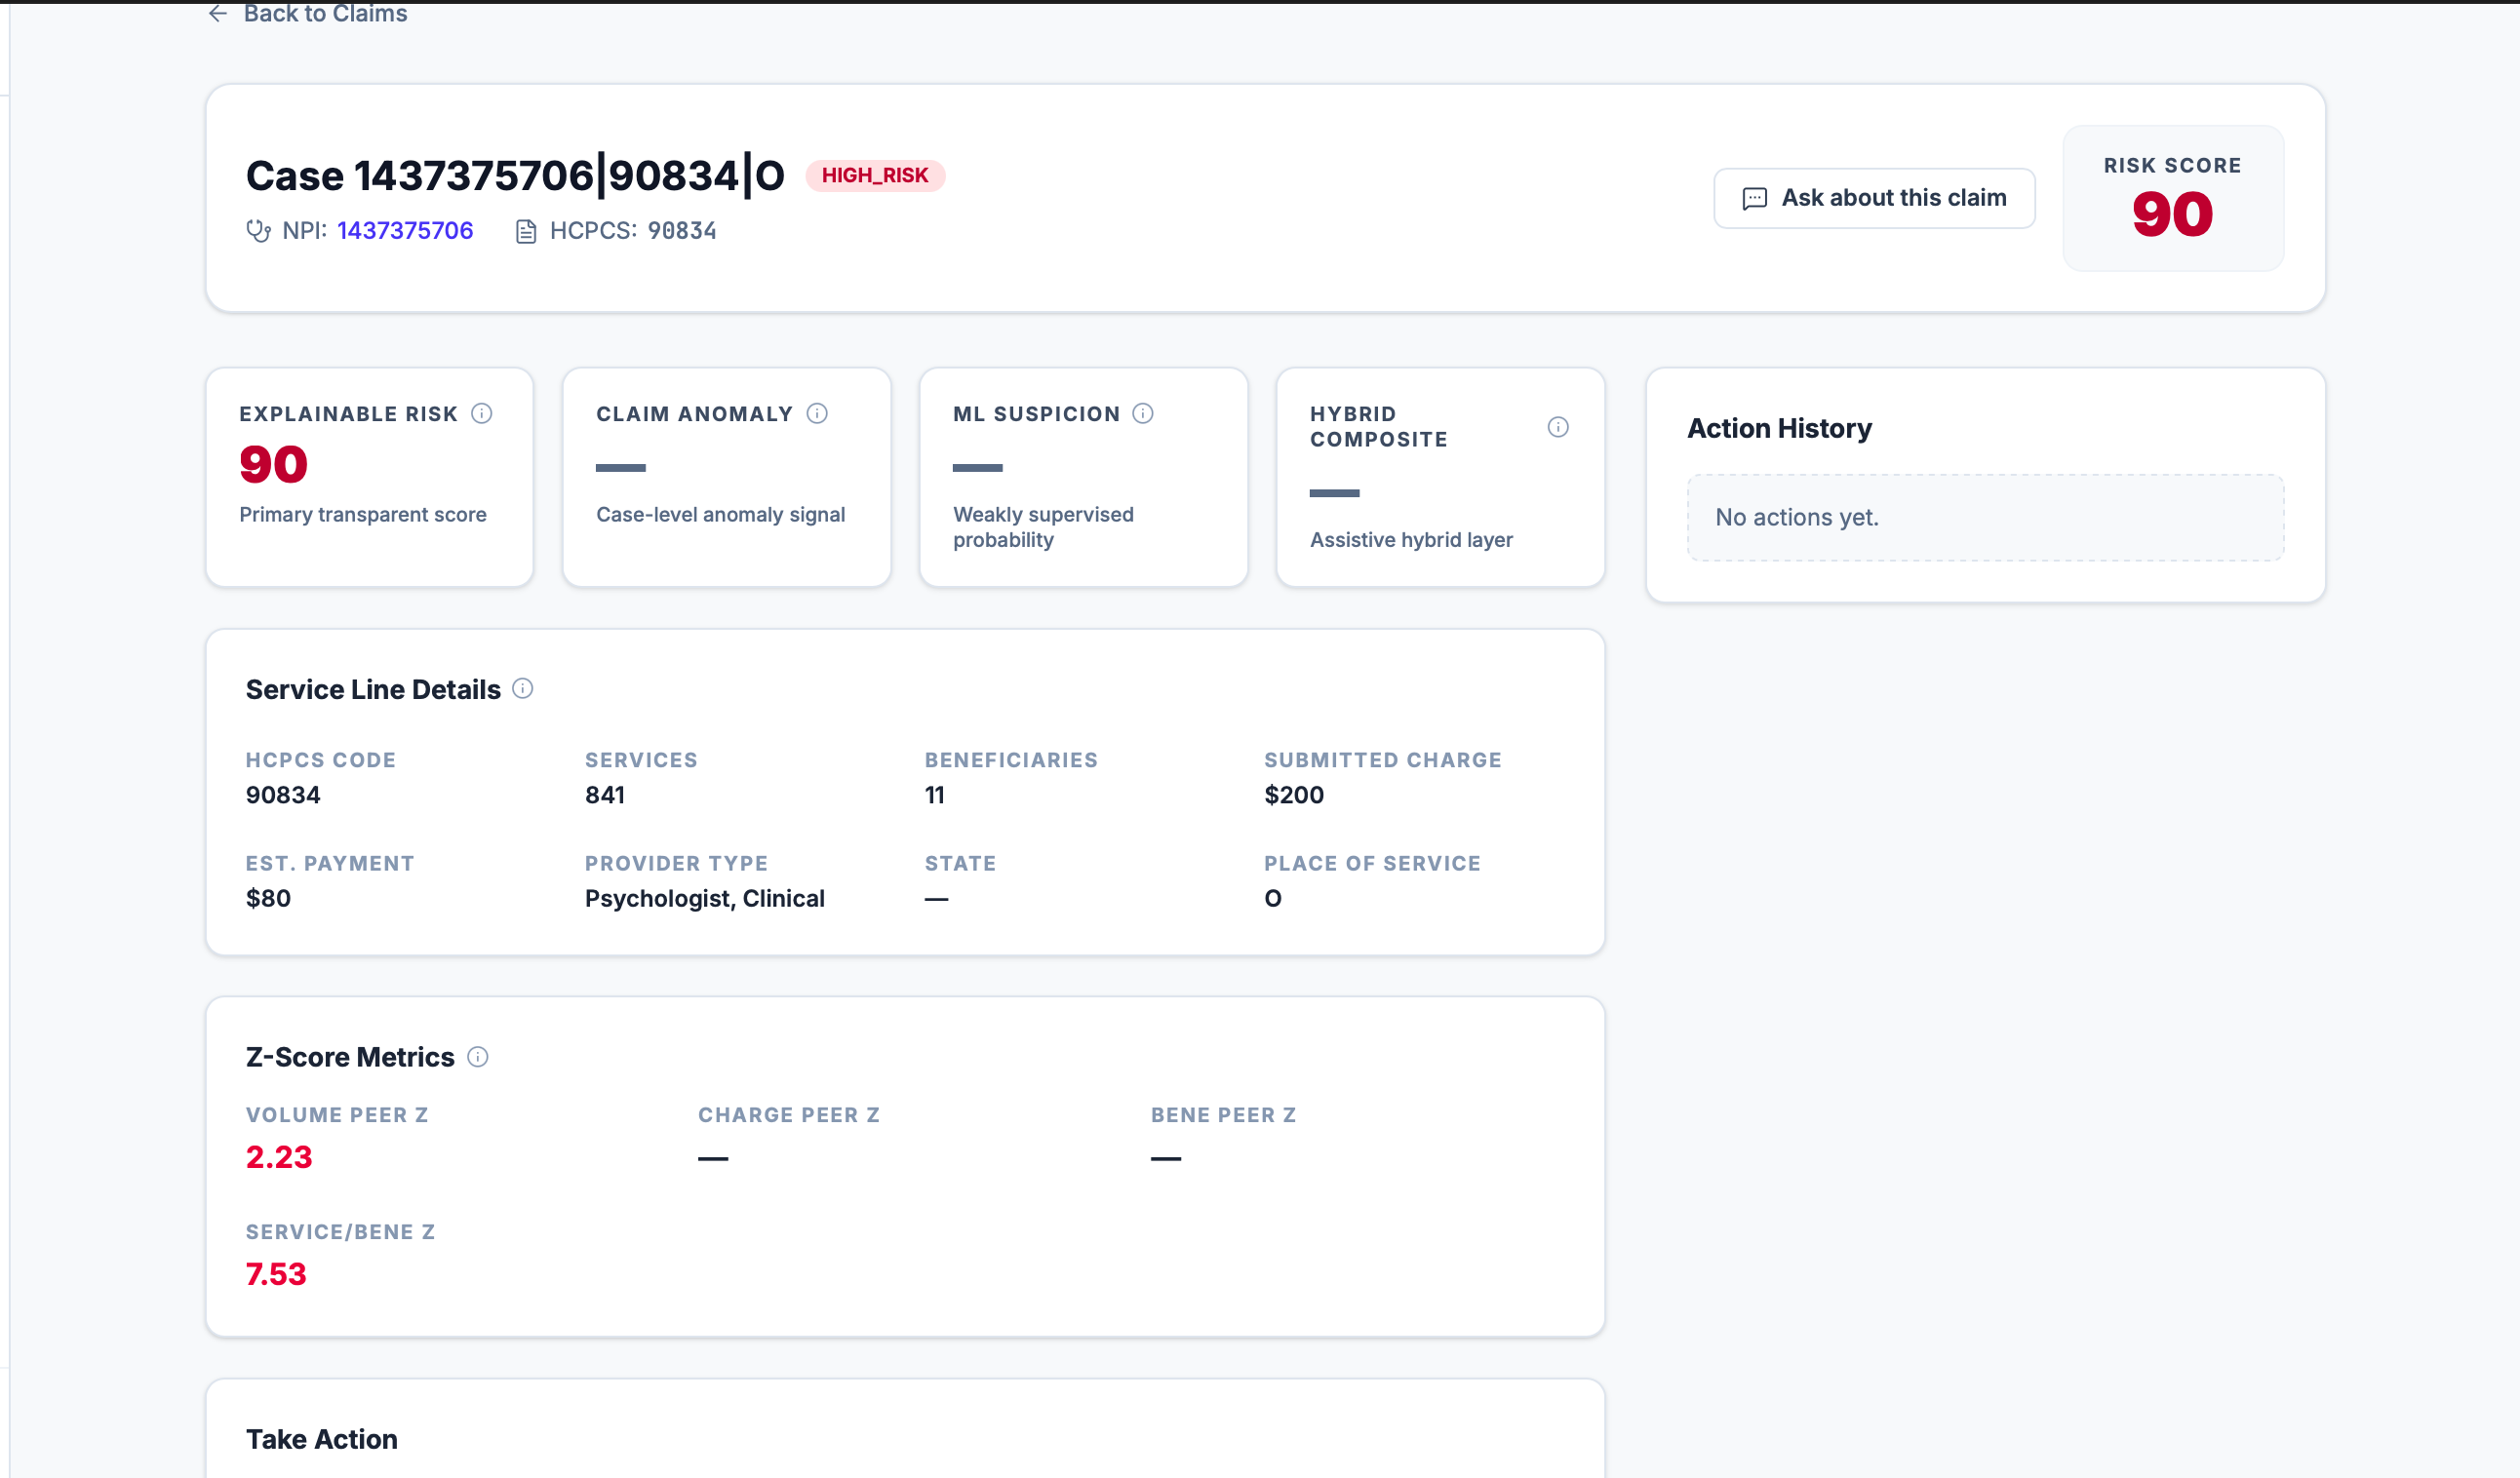
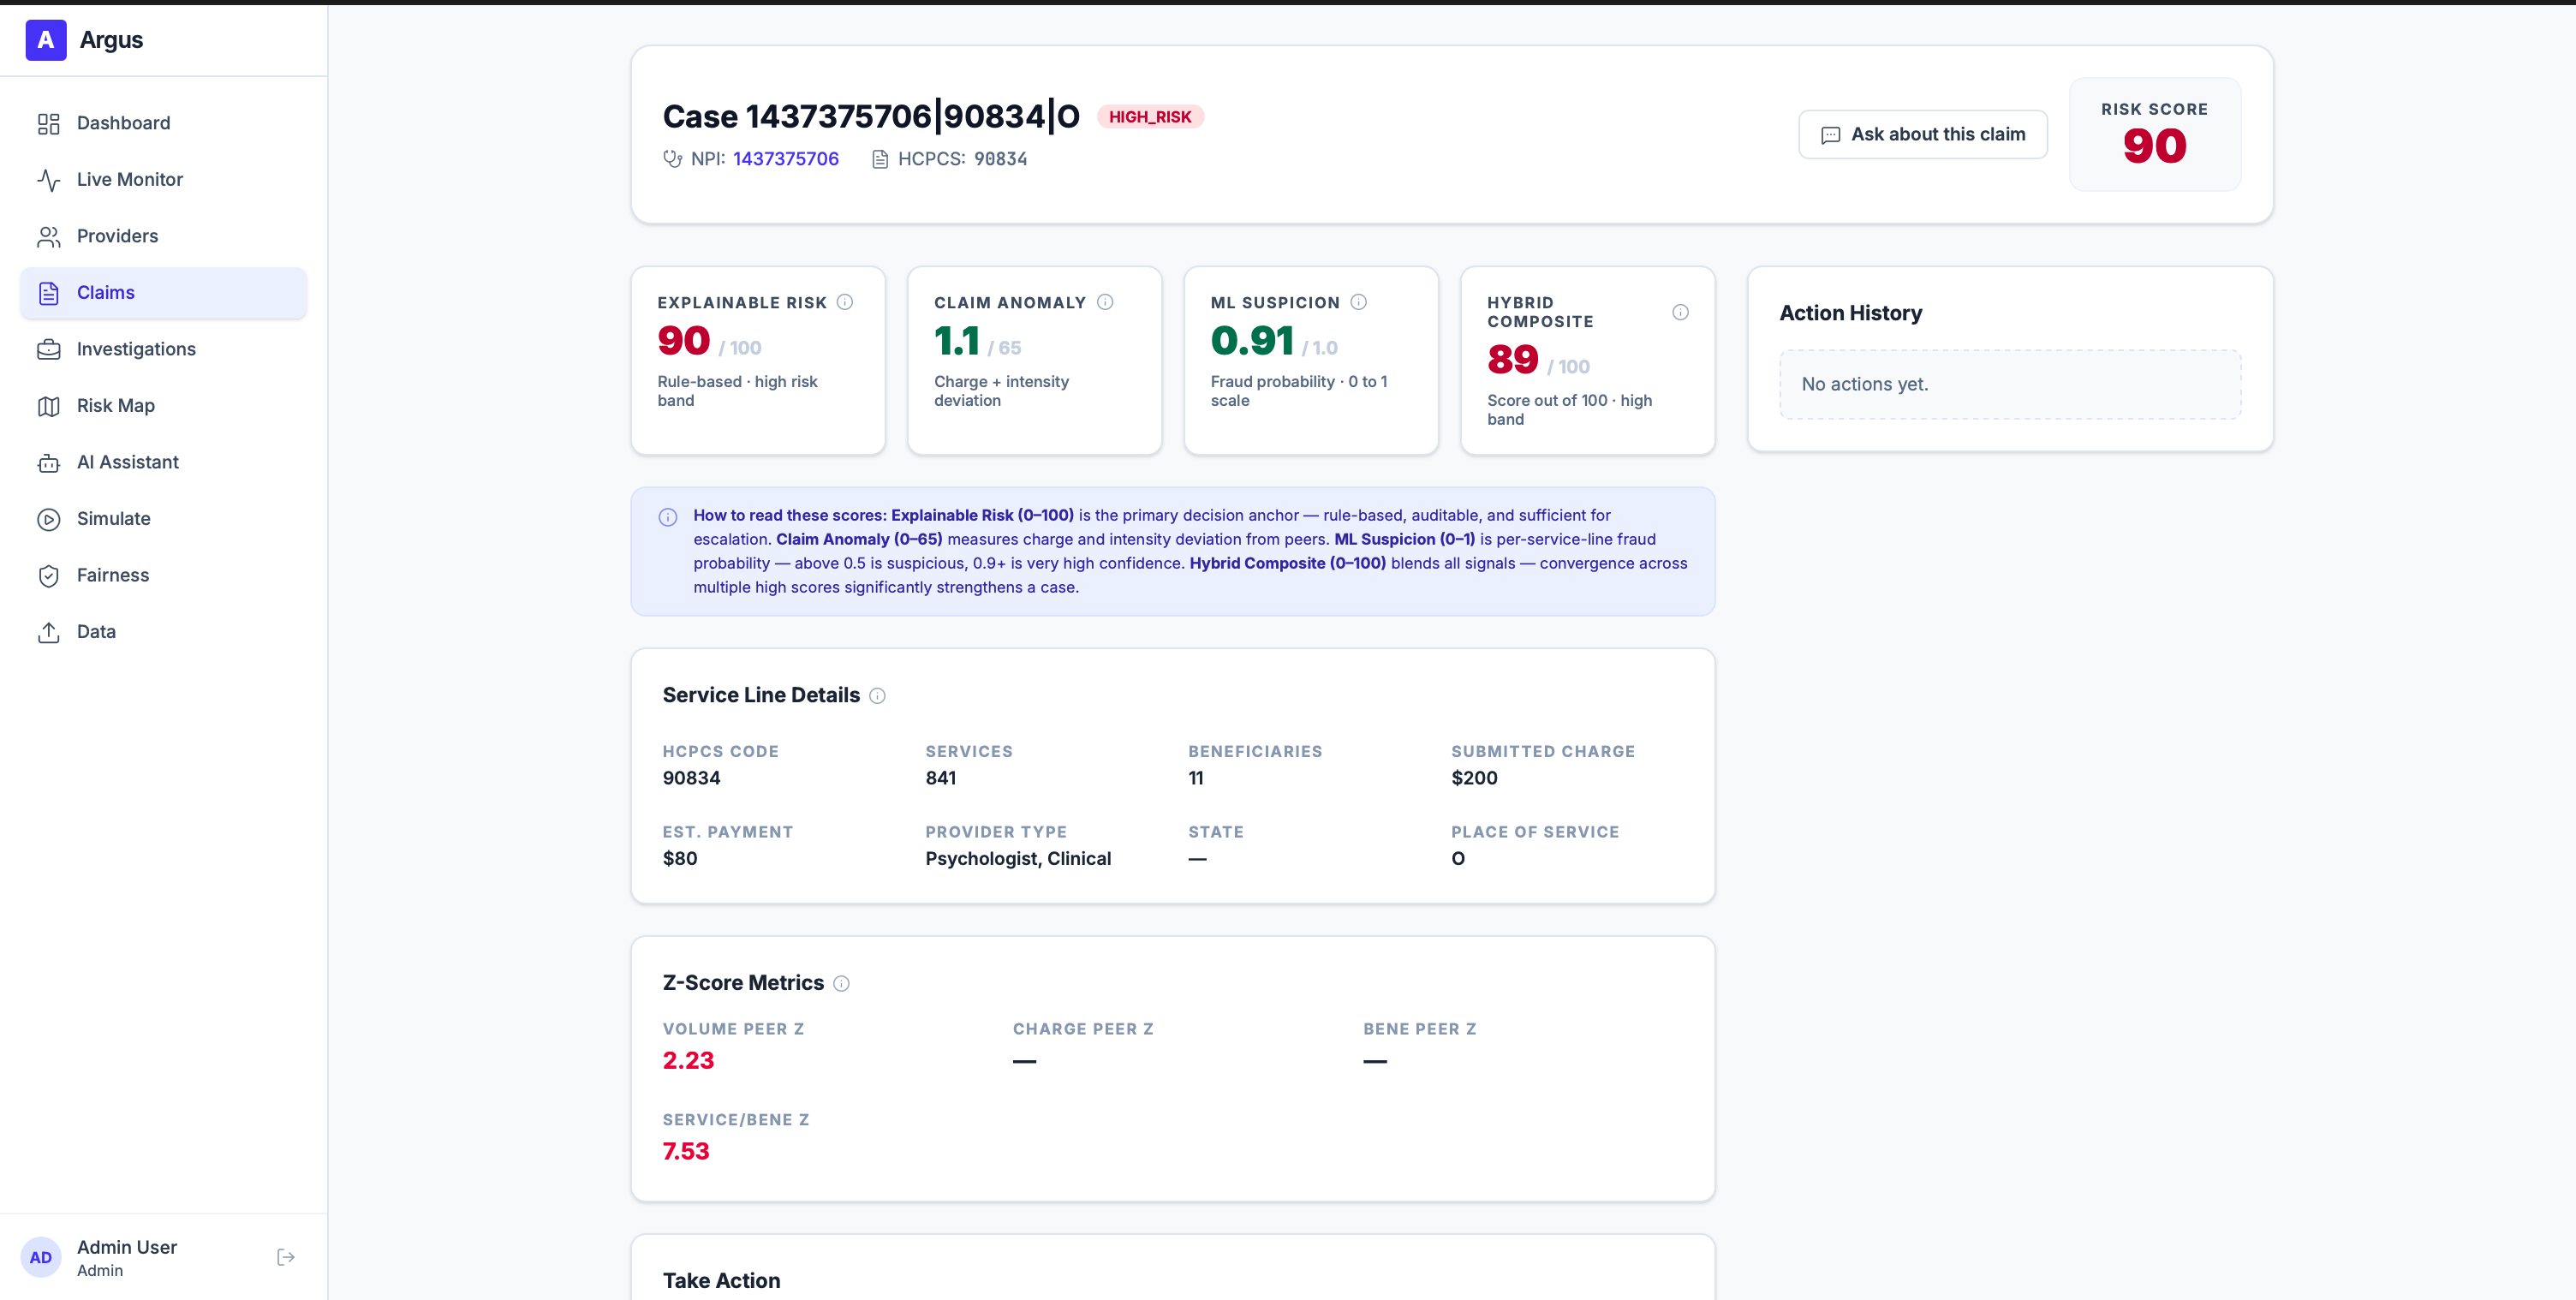
fix(api): use seed-backed live queue

diff --git a/src/api/live_queue.py b/src/api/live_queue.py
@@ -1,8 +1,7 @@
 """Persistent server-side queue for the Live Payment Monitor.
 
-Builds a curated 10,000-event queue from the database, pre-scores each
-claim through the 14-signal engine, and emits events at a configurable
-TPS rate via an async broadcast channel.
+Builds a curated 10,000-event queue from pre-scored seed data in Postgres
+and emits events at a configurable TPS rate via an async broadcast channel.
 
 Key properties:
   - Survives browser refresh / different user logins (server-side state)
@@ -28,9 +27,6 @@ from datetime import UTC, datetime
 from psycopg.rows import dict_row
 
 from src.api import deps as _deps
-from src.models.anomaly_scorer import score_provider
-from src.scoring.score import ScoreCard, score_case
-from src.scoring.taxonomy import SignalDirection
 
 logger = logging.getLogger(__name__)
 
@@ -96,6 +92,8 @@ WITH ranked AS (
            peer_scope, peer_case_count, peer_avg_tot_srvcs,
            service_volume_peer_z, services_per_bene_peer_z,
            submitted_to_allowed_peer_z, payment_peer_z,
+           seed_risk_score, seed_legitimacy_score, seed_case_label,
+           seed_risk_reasons,
            ROW_NUMBER() OVER (
                PARTITION BY provider_state
                ORDER BY npi, case_id
@@ -119,43 +117,24 @@ ORDER BY cnt DESC
 LIMIT %(limit)s
 """
 
-_FEATURES_SQL = """SELECT * FROM provider_features WHERE npi = %(npi)s"""
-
-
 # ---------------------------------------------------------------------------
 # Band filter helpers
 # ---------------------------------------------------------------------------
 
 
 def _high_risk_filter() -> str:
-    """SQL WHERE clause fragment for high_risk cases."""
-    return (
-        "service_volume_peer_z >= 2.0 OR services_per_bene_peer_z >= 2.0 "
-        "OR submitted_to_allowed_peer_z >= 2.0 OR payment_peer_z >= 2.0 "
-        "OR present_in_2026_revocation_file = 1"
-    )
+    """SQL WHERE clause fragment for high_risk seed cases."""
+    return "seed_case_label = 'high_risk'"
 
 
 def _stable_filter() -> str:
-    """SQL WHERE clause fragment for likely-stable cases."""
-    return (
-        "present_in_2025_enrollment_file = 1 "
-        "AND (present_in_2026_revocation_file IS NULL "
-        "     OR present_in_2026_revocation_file = 0) "
-        "AND medicare_participating_ind = 'Y' "
-        "AND COALESCE(service_volume_peer_z, 0) < 2.0 "
-        "AND COALESCE(services_per_bene_peer_z, 0) < 2.0"
-    )
+    """SQL WHERE clause fragment for stable seed cases."""
+    return "seed_case_label = 'stable'"
 
 
 def _review_filter() -> str:
-    """SQL WHERE clause fragment for review-band cases (middle ground)."""
-    return (
-        "present_in_2025_enrollment_file = 1 "
-        "AND (COALESCE(service_volume_peer_z, 0) BETWEEN 1.0 AND 3.0 "
-        "     OR COALESCE(services_per_bene_peer_z, 0) BETWEEN 1.0 AND 3.0 "
-        "     OR COALESCE(submitted_to_allowed_peer_z, 0) BETWEEN 1.0 AND 3.0)"
-    )
+    """SQL WHERE clause fragment for review seed cases."""
+    return "seed_case_label = 'review'"
 
 
 # ---------------------------------------------------------------------------
@@ -249,45 +228,21 @@ class QueueManager:
                 len(stable_rows),
             )
 
-            # 3. Score all candidates and partition by actual scored label
-            scored_by_label: dict[str, list[QueueEvent]] = defaultdict(list)
-            npi_features_cache: dict[str, dict | None] = {}
-
-            all_candidates = list(high_risk_rows) + list(review_rows) + list(stable_rows)
-            # Shuffle before scoring to avoid systematic bias
-            random.shuffle(all_candidates)
-
-            # Pre-fetch features for anomaly scoring
-            unique_npis = list({r["npi"] for r in all_candidates})
-            async with conn.cursor(row_factory=dict_row) as cur:
-                for npi in unique_npis:
-                    await cur.execute(_FEATURES_SQL, {"npi": npi})
-                    feat = await cur.fetchone()
-                    npi_features_cache[npi] = dict(feat) if feat else None
-
-            # Offload CPU-bound scoring to a thread so the event loop
-            # stays responsive for health probes and other requests.
-            scored_by_label = await asyncio.to_thread(
-                self._score_all,
-                all_candidates,
-                npi_features_cache,
-            )
-
-            logger.info(
-                "live queue: scored — high_risk=%d, review=%d, stable=%d",
-                len(scored_by_label.get("high_risk", [])),
-                len(scored_by_label.get("review", [])),
-                len(scored_by_label.get("stable", [])),
-            )
-
-            # 4. Sample target counts from each bucket
+            # 3. Convert pre-scored seed rows into queue events.
             high_risk_evts = self._diverse_sample(
-                scored_by_label.get("high_risk", []), HIGH_RISK_COUNT
+                [self._event_from_seed_row(row) for row in high_risk_rows],
+                HIGH_RISK_COUNT,
             )
-            review_evts = self._diverse_sample(scored_by_label.get("review", []), REVIEW_COUNT)
-            stable_evts = self._diverse_sample(scored_by_label.get("stable", []), STABLE_COUNT)
+            review_evts = self._diverse_sample(
+                [self._event_from_seed_row(row) for row in review_rows],
+                REVIEW_COUNT,
+            )
+            stable_evts = self._diverse_sample(
+                [self._event_from_seed_row(row) for row in stable_rows],
+                STABLE_COUNT,
+            )
 
-            # 5. Interleave for natural-looking stream
+            # 4. Interleave for natural-looking stream
             self.queue = self._interleave(high_risk_evts, review_evts, stable_evts)
             self.position = 0
             self.queue_actual_counts = {
@@ -329,39 +284,9 @@ class QueueManager:
         return [dict(r) for r in rows]
 
     @staticmethod
-    def _score_all(
-        candidates: list[dict],
-        features_cache: dict[str, dict | None],
-    ) -> dict[str, list[QueueEvent]]:
-        """Score all candidates (CPU-bound). Designed to run in a thread."""
-        scored: dict[str, list[QueueEvent]] = defaultdict(list)
-        for row in candidates:
-            evt = QueueManager._score_row(dict(row), features_cache)
-            scored[evt.case_label].append(evt)
-        return scored
-
-    @staticmethod
-    def _score_row(
-        row: dict,
-        features_cache: dict[str, dict | None],
-    ) -> QueueEvent:
-        """Score a single row and return a QueueEvent."""
-        start = time.monotonic()
-        card: ScoreCard = score_case(row)
-        latency = (time.monotonic() - start) * 1000
-
-        anomaly: float | None = None
-        feat = features_cache.get(row.get("npi", ""))
-        if feat:
-            try:
-                anomaly = score_provider(feat)
-            except Exception:
-                pass
-
-        risk_signals = [
-            s.signal.name for s in card.signals if s.signal.direction == SignalDirection.risk
-        ]
-
+    def _event_from_seed_row(row: dict) -> QueueEvent:
+        """Convert a pre-scored DB row into a queue event."""
+        signals = QueueManager._parse_seed_reasons(row.get("seed_risk_reasons"))
         return QueueEvent(
             npi=row.get("npi", ""),
             provider_name=row.get("provider_name") or "Unknown",
@@ -371,13 +296,20 @@ class QueueManager:
             hcpcs_desc=row.get("hcpcs_desc") or "",
             submitted_charge=float(row.get("avg_submitted_charge") or 0),
             provider_type=row.get("provider_type") or "",
-            risk_score=card.risk_score,
-            legitimacy_score=card.legitimacy_score,
-            case_label=card.case_label.value,
-            anomaly_score=anomaly,
-            signals=risk_signals,
-            scoring_latency_ms=round(latency, 1),
+            risk_score=int(row.get("seed_risk_score") or 0),
+            legitimacy_score=int(row.get("seed_legitimacy_score") or 0),
+            case_label=row.get("seed_case_label") or "review",
+            anomaly_score=None,
+            signals=signals,
+            scoring_latency_ms=0.0,
         )
+
+    @staticmethod
+    def _parse_seed_reasons(raw: str | None) -> list[str]:
+        """Parse pipe-delimited seed risk reasons into a clean list."""
+        if not raw:
+            return []
+        return [part.strip() for part in raw.split("|") if part.strip()]
 
     @staticmethod
     def _diverse_sample(events: list[QueueEvent], target: int) -> list[QueueEvent]:

diff --git a/tests/test_live_queue_seed.py b/tests/test_live_queue_seed.py
@@ -1,0 +1,39 @@
+from src.api.live_queue import QueueManager
+
+
+def test_event_from_seed_row_uses_precomputed_seed_fields() -> None:
+    row = {
+        "npi": "1234567890",
+        "provider_name": "SMITH, JOHN",
+        "state": "TX",
+        "city": "Houston",
+        "hcpcs_cd": "99213",
+        "hcpcs_desc": "Office visit",
+        "avg_submitted_charge": 125.5,
+        "provider_type": "Internal Medicine",
+        "seed_risk_score": 72,
+        "seed_legitimacy_score": 24,
+        "seed_case_label": "high_risk",
+        "seed_risk_reasons": "revoked_provider|payment_outlier|service_volume_outlier",
+    }
+
+    event = QueueManager._event_from_seed_row(row)
+
+    assert event.npi == "1234567890"
+    assert event.provider_name == "SMITH, JOHN"
+    assert event.risk_score == 72
+    assert event.legitimacy_score == 24
+    assert event.case_label == "high_risk"
+    assert event.signals == [
+        "revoked_provider",
+        "payment_outlier",
+        "service_volume_outlier",
+    ]
+    assert event.anomaly_score is None
+    assert event.scoring_latency_ms == 0.0
+
+
+def test_parse_seed_reasons_handles_empty_values() -> None:
+    assert QueueManager._parse_seed_reasons(None) == []
+    assert QueueManager._parse_seed_reasons("") == []
+    assert QueueManager._parse_seed_reasons("a|b|| c ") == ["a", "b", "c"]